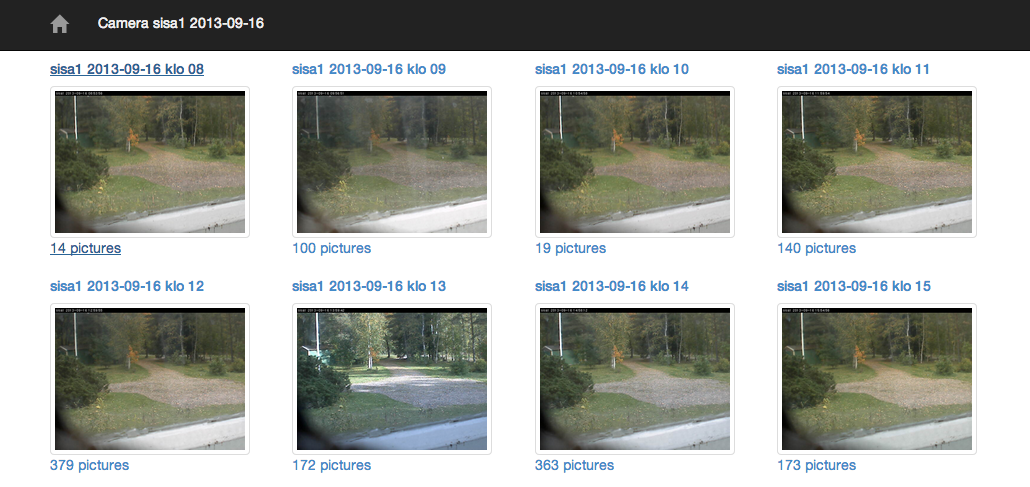
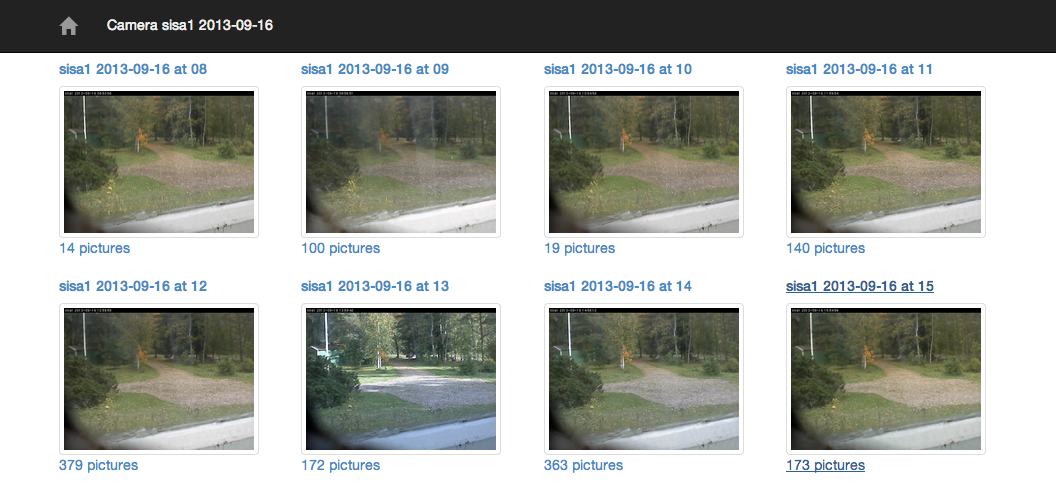
translated texts

diff --git a/lib/pics.js b/lib/pics.js
@@ -27,7 +27,7 @@ $(document).ready(function() {
 	    case 'year': title += ' 20' + arg; break;
 	    case 'month': title += '-' + arg; break;
 	    case 'day': title += '-' + arg; break; 
-	    case 'hour': title += ' klo ' + arg; break;
+	    case 'hour': title += ' at ' + arg; break;
 	    case 'minute': title += ':' + arg; break;
 	    case 'second': title += ':' + arg; break;
 	    };

diff --git a/lib/api.js b/lib/api.js
@@ -160,7 +160,7 @@ function maketitle(parsed, lastcrit) {
     res += '-' + parsed.day;
     if( lastcrit == 'day' )
 	return res;
-    res += ' klo ' + parsed.hour;
+    res += ' at ' + parsed.hour;
     if( lastcrit == 'hour' )
 	return res;
     res += ':' + parsed.minute;
